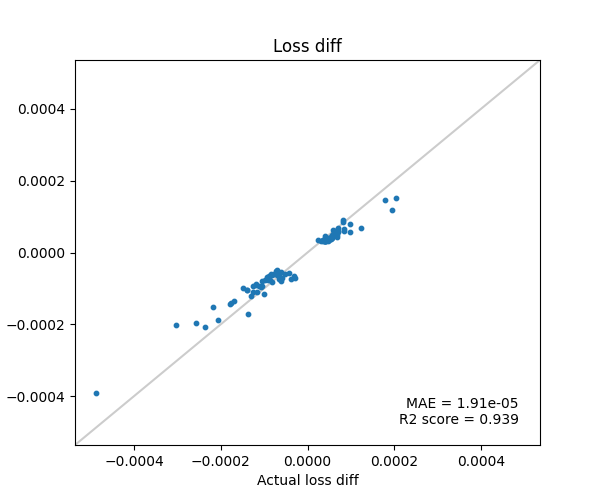
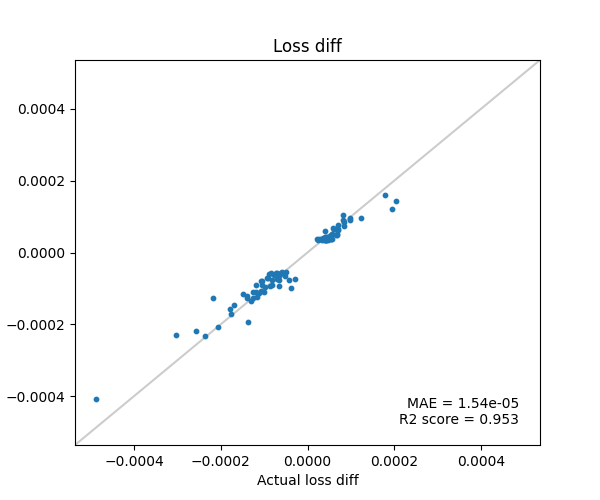
test for calc_influence_single

diff --git a/demo.py b/demo.py
@@ -6,10 +6,16 @@ from utils import get_2class_mnist, visualize_result
 from model import LogisticRegression as LR
 
 
+import pytorch_influence_functions as ptif
+
 from pytorch_influence_functions.influence_functions.hvp_grad import (
     grad_z,
     s_test_sample,
 )
+from pytorch_influence_functions.influence_functions.influence_functions import (
+    calc_influence_single,
+)
+
 
 EPOCH = 10
 BATCH_SIZE = 100
@@ -27,10 +33,10 @@ if __name__ == '__main__':
     (x_train, y_train), (x_test, y_test) = get_2class_mnist(NUM_A, NUM_B)
     train_sample_num = len(x_train)
 
-    class TrainData(torch.utils.data.Dataset):
-        def __init__(self):
-            self.data = x_train
-            self.targets = y_train
+    class CreateData(torch.utils.data.Dataset):
+        def __init__(self, data, targets):
+            self.data = data
+            self.targets = targets
 
         def __len__(self):
             return len(self.data)
@@ -40,9 +46,9 @@ if __name__ == '__main__':
             out_label = self.targets[idx]
 
             return out_data, out_label
-
-    train_data = TrainData()
-    train_loader = torch.utils.data.DataLoader(train_data, batch_size=1, shuffle=True)
+    
+    train_data = CreateData(x_train, y_train)
+    train_loader = torch.utils.data.DataLoader(train_data, batch_size=1, shuffle=False)
 
     # prepare sklearn model to train w
     C = 1.0 / (train_sample_num * WEIGHT_DECAY)
@@ -66,6 +72,9 @@ if __name__ == '__main__':
     x_test_input = torch.FloatTensor(x_test[TEST_INDEX: TEST_INDEX+1])
     y_test_input = torch.LongTensor(y_test[TEST_INDEX: TEST_INDEX+1])
 
+    test_data = CreateData(x_test[TEST_INDEX: TEST_INDEX+1], y_test[TEST_INDEX: TEST_INDEX+1])
+    test_loader = torch.utils.data.DataLoader(test_data, batch_size=1, shuffle=True)
+
     if gpus >= 0:
         torch_model = torch_model.cuda()
         x_test_input = x_test_input.cuda()
@@ -76,31 +85,35 @@ if __name__ == '__main__':
     # # get test loss gradient
     # test_grad = torch.autograd.grad(test_loss_ori, torch_model.w)
 
-    # get inverse hvp (s_test)
-    print('Calculating s_test ...')
-    s_test = s_test_sample(
-            torch_model, x_test_input, y_test_input, train_loader, gpu=gpus, damp=0, scale=25, recursion_depth=RECURSION_DEPTH, r=R
-        )[0].detach().cpu().numpy()
-    # s_test = torch_model.sess.run(torch_model.inverse_hessian, feed_dict={torch_model.x: x_train, torch_model.y: y_train}) @ test_grad
+    # # get inverse hvp (s_test)
+    # print('Calculating s_test ...')
+    # s_test = s_test_sample(
+    #         torch_model, x_test_input, y_test_input, train_loader, gpu=gpus, damp=0, scale=25, recursion_depth=RECURSION_DEPTH, r=R
+    #     )[0].detach().cpu().numpy()
+    # # s_test = torch_model.sess.run(torch_model.inverse_hessian, feed_dict={torch_model.x: x_train, torch_model.y: y_train}) @ test_grad
 
-    print(s_test)
+    # print(s_test)
 
     # get train loss gradient and estimate loss diff
-    loss_diff_approx = np.zeros(train_sample_num)
-    for i in range(train_sample_num):
-        x_input = torch.FloatTensor(x_train[i])
-        y_input = torch.LongTensor(y_train[i])
+    # loss_diff_approx = np.zeros(train_sample_num)
+    # for i in range(train_sample_num):
+    #     x_input = torch.FloatTensor(x_train[i])
+    #     y_input = torch.LongTensor(y_train[i])
 
-        if gpus >= 0:
-            x_input = x_input.cuda()
-            y_input = y_input.cuda()
+    #     if gpus >= 0:
+    #         x_input = x_input.cuda()
+    #         y_input = y_input.cuda()
 
-        train_loss = torch_model.loss(torch_model(x_input), y_input)
-        train_grad = torch.autograd.grad(train_loss, torch_model.w)[0].detach().cpu().numpy()
+    #     train_loss = torch_model.loss(torch_model(x_input), y_input)
+    #     train_grad = torch.autograd.grad(train_loss, torch_model.w)[0].detach().cpu().numpy()
 
-        loss_diff_approx[i] = np.asscalar(train_grad.T @ s_test) / train_sample_num
-        if i % 100 == 0:
-            print('[{}/{}] Estimated loss diff: {}'.format(i+1, train_sample_num, loss_diff_approx[i]))
+    #     loss_diff_approx[i] = np.asscalar(train_grad.T @ s_test) / train_sample_num
+    #     if i % 100 == 0:
+    #         print('[{}/{}] Estimated loss diff: {}'.format(i+1, train_sample_num, loss_diff_approx[i]))
+
+    loss_diff_approx, _, _, _, = calc_influence_single(torch_model, train_loader, test_loader, test_id_num=0, gpu=1,
+                                recursion_depth=RECURSION_DEPTH, r=R, damp=0)
+    loss_diff_approx = - torch.FloatTensor(loss_diff_approx).cpu().numpy()
 
     # get high and low loss diff indice
     sorted_indice = np.argsort(loss_diff_approx)

diff --git a/README.md b/README.md
@@ -7,7 +7,7 @@ A simple implementation of a paper [**Understanding Black-box Predictions via In
 
 # Usage
 install pytorch_influence_functions
-[https://github.com/ryokamoi/pytorch_influence_functions/tree/master](https://github.com/ryokamoi/pytorch_influence_functions/tree/master)
+[https://github.com/ryokamoi/pytorch_influence_functions](https://github.com/ryokamoi/pytorch_influence_functions)
 
 ```bash
 $ python demo.py
